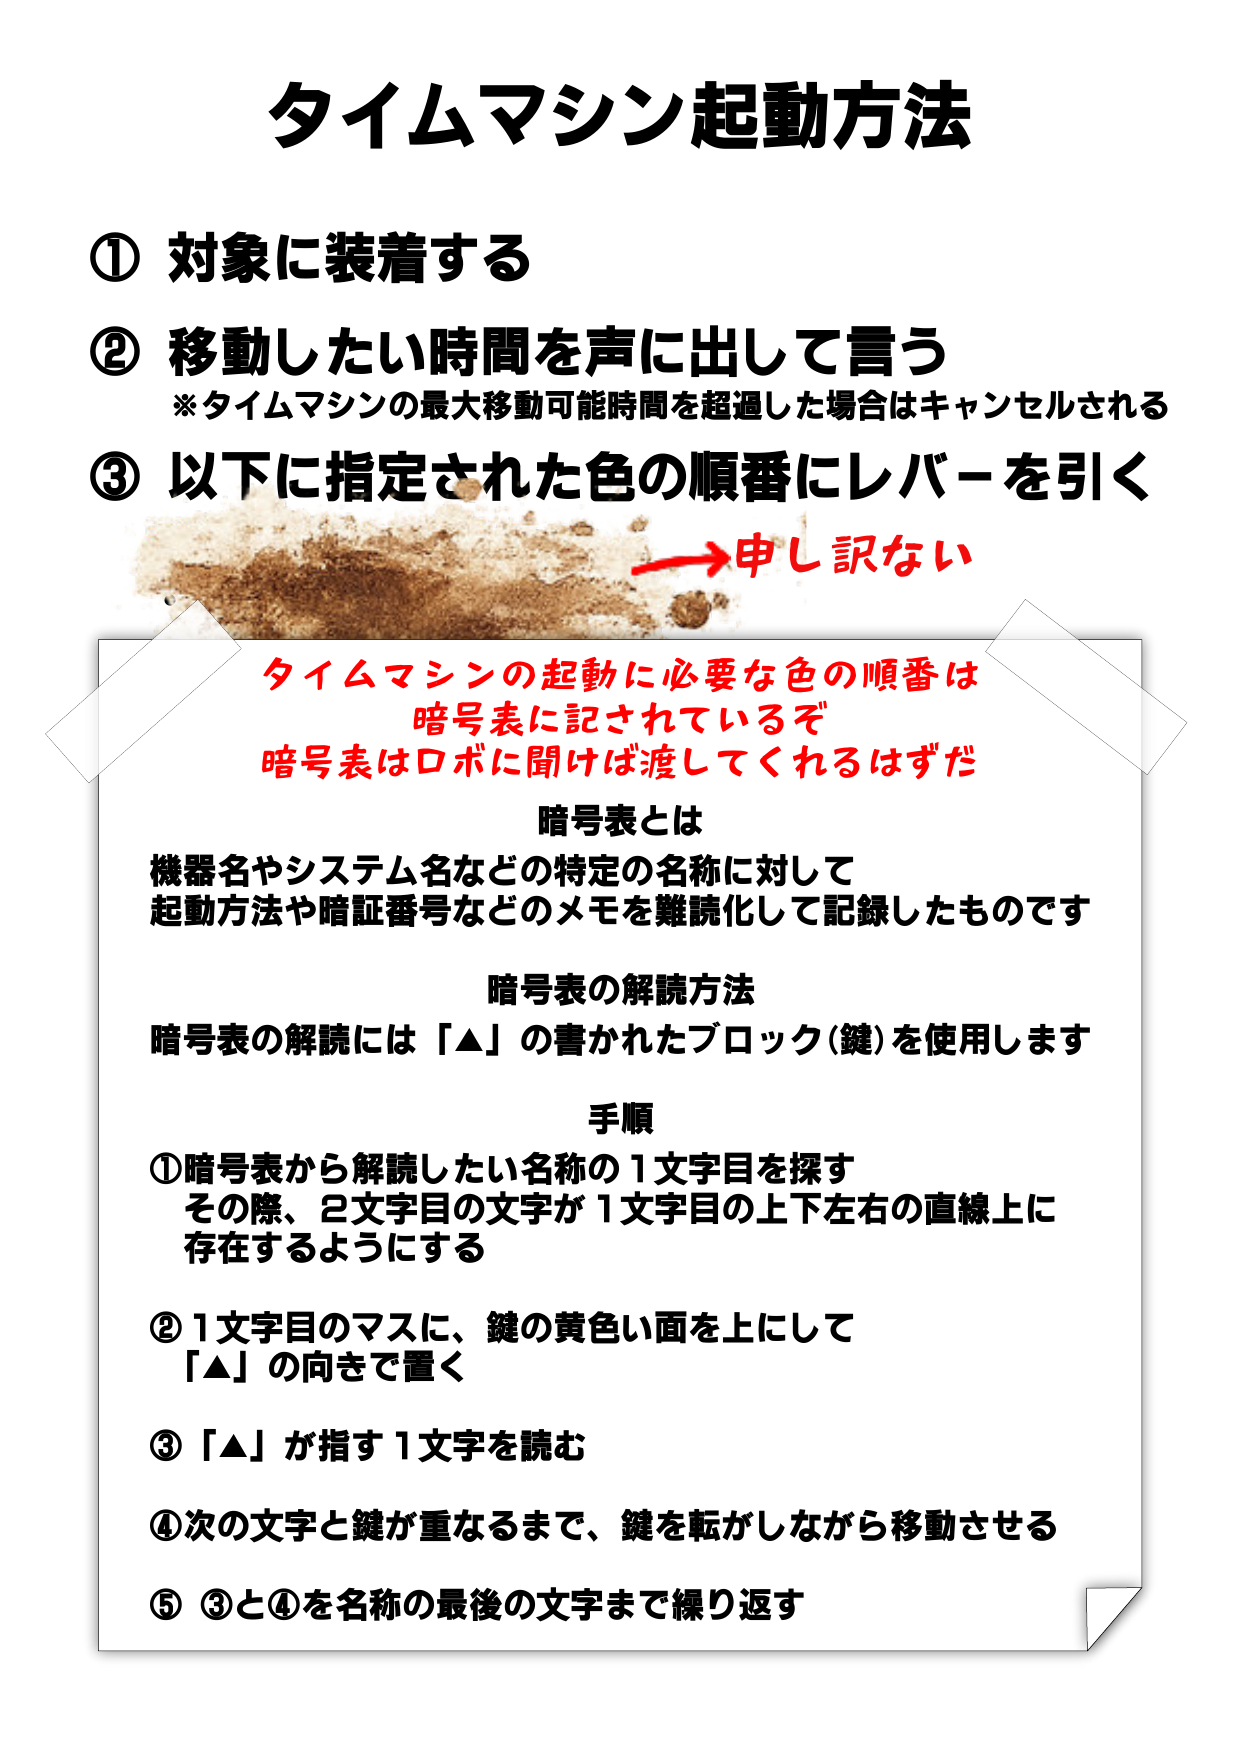
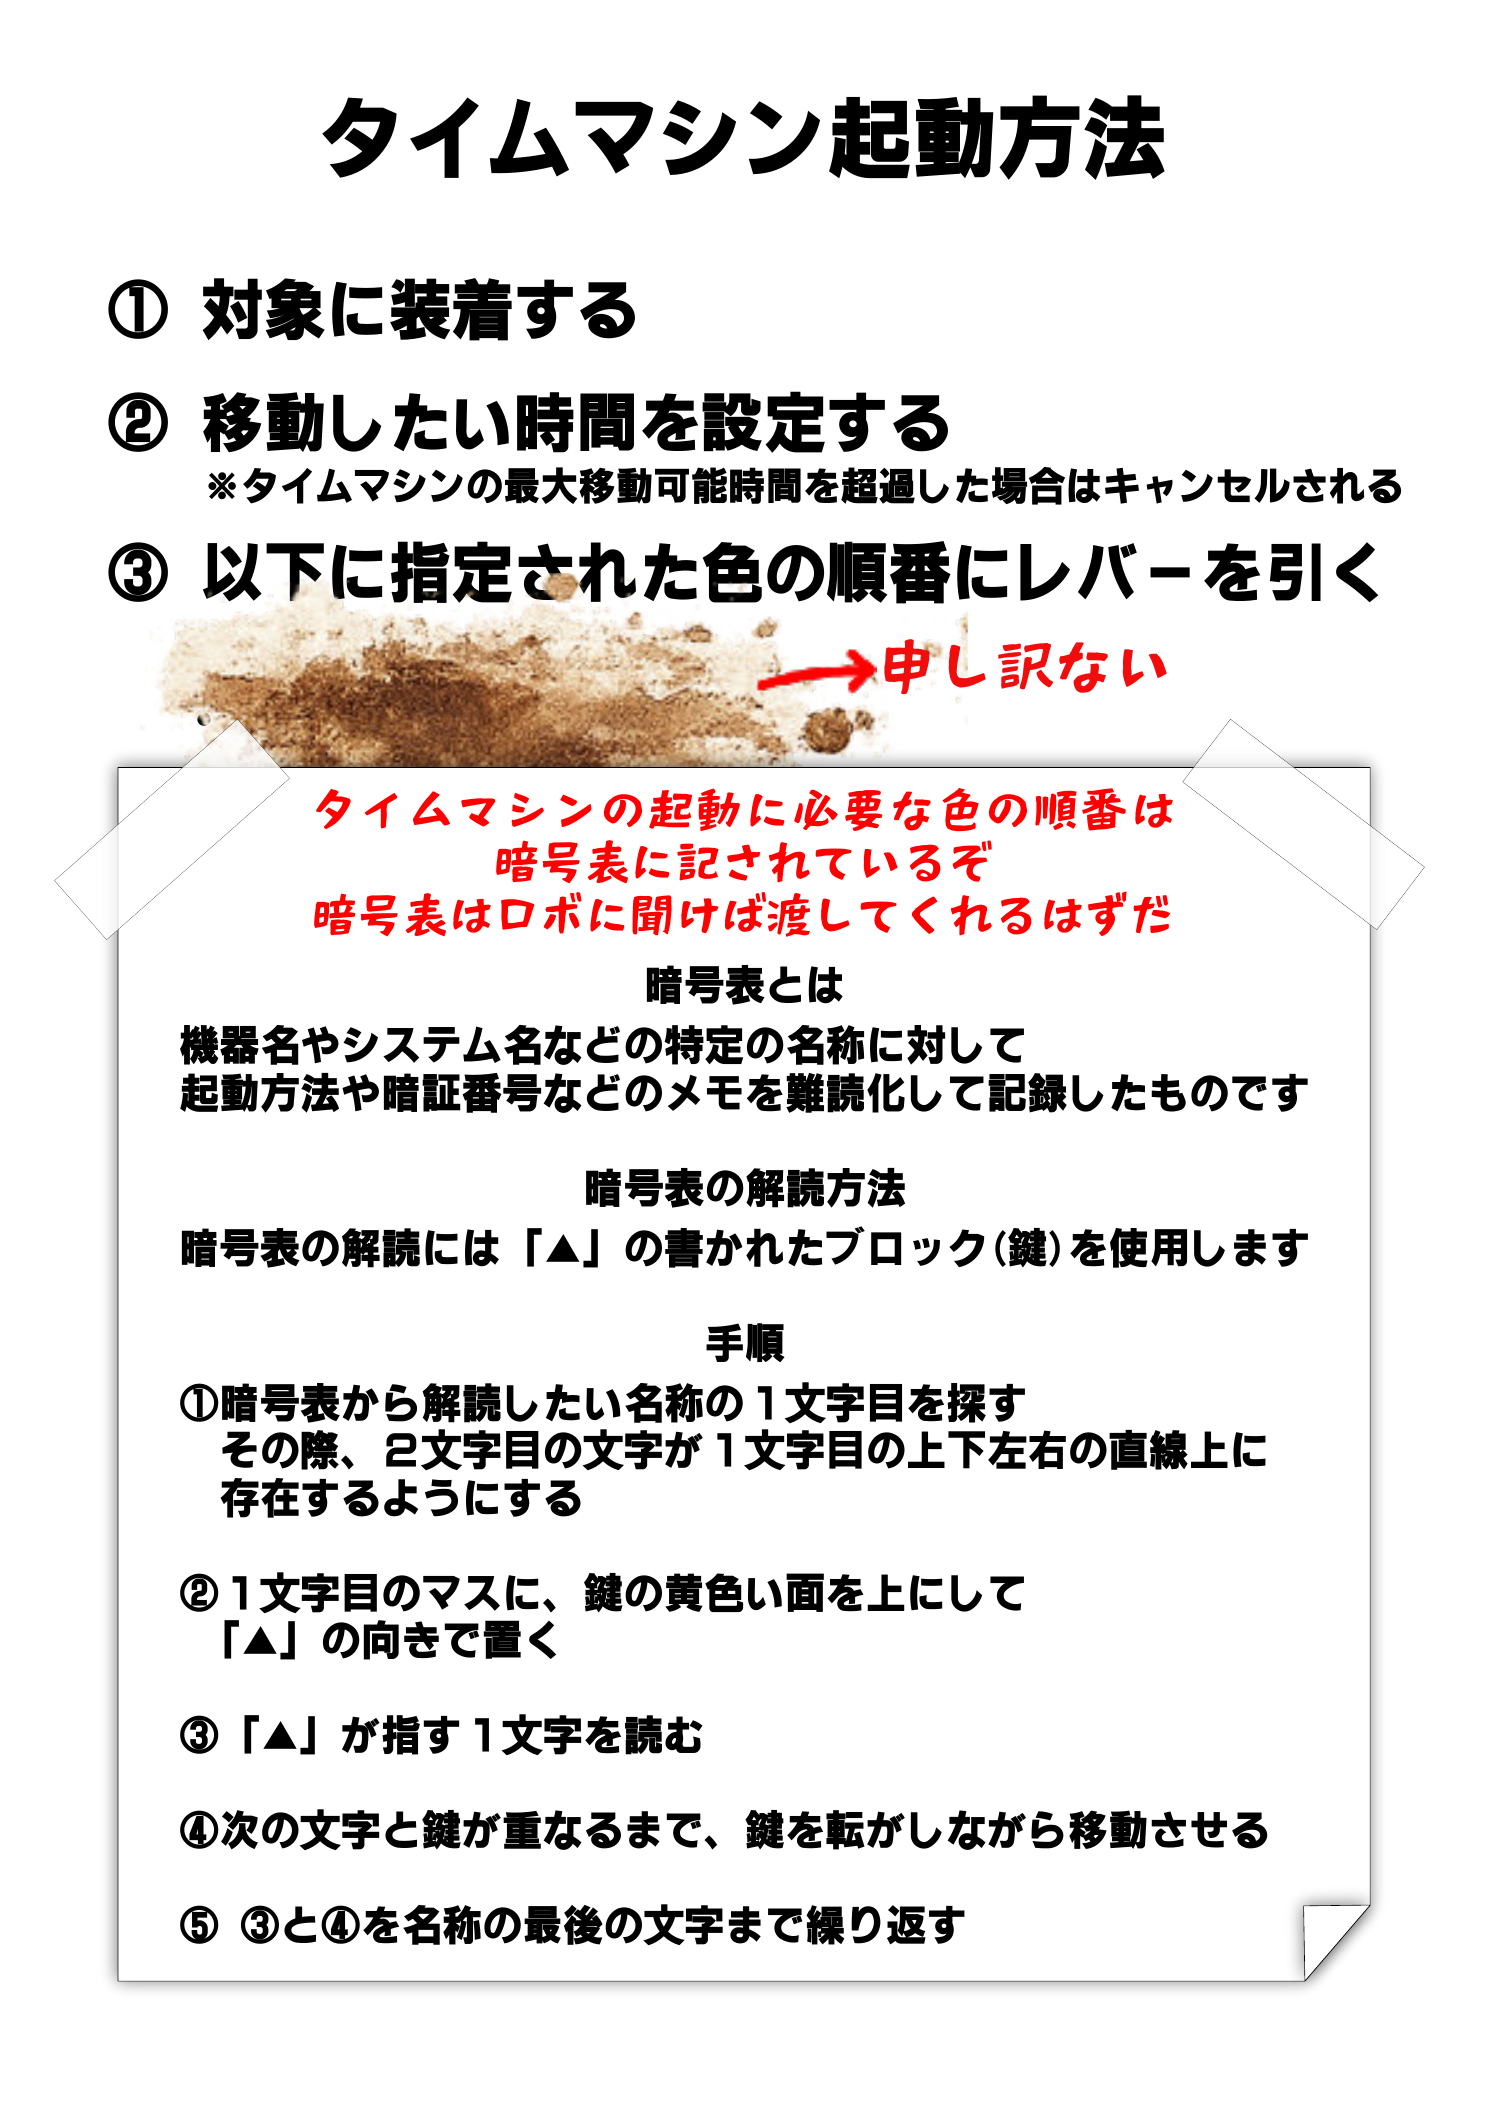
Update time machine reference images

diff --git a/screen6.html b/screen6.html
@@ -23,8 +23,8 @@
     <section class="time-documents" id="time-machine-documents" aria-labelledby="time-documents-title">
       <header class="time-documents-heading section-shell reveal"><div><p class="section-kicker">RECOVERED FILES / 02</p><h2 id="time-documents-title">タイムマシン資料</h2></div><p>画像をクリック／タップすると<br>大きく表示できます</p></header>
       <div class="time-document-grid section-shell">
-        <article class="time-document reveal"><header><span>DOCUMENT / 01</span><strong>タイムマシン起動方法</strong></header><button class="time-document-image" type="button" data-lightbox-src="assets/screen6/images/time-machine-procedure.png" data-lightbox-label="タイムマシン起動方法"><img src="assets/screen6/images/time-machine-procedure.png" alt="タイムマシンの装着、移動時間の指定、色レバーの操作と暗号表の解読方法を記した起動方法" loading="lazy"><span>拡大表示</span></button></article>
-        <article class="time-document reveal"><header><span>DOCUMENT / 02</span><strong>タイムマシン解説書</strong></header><button class="time-document-image" type="button" data-lightbox-src="assets/screen6/images/time-machine-guide.png?v=20260727-2" data-lightbox-label="タイムマシン解説書"><img src="assets/screen6/images/time-machine-guide.png?v=20260727-2" alt="宇宙船搭載タイムマシンの機能、装着条件、各世代の最大移動時間を説明する解説書" loading="lazy"><span>拡大表示</span></button></article>
+        <article class="time-document reveal"><header><span>DOCUMENT / 01</span><strong>タイムマシン起動方法</strong></header><button class="time-document-image" type="button" data-lightbox-src="assets/screen6/images/time-machine-procedure.png?v=20260729-1" data-lightbox-label="タイムマシン起動方法"><img src="assets/screen6/images/time-machine-procedure.png?v=20260729-1" alt="タイムマシンの装着、移動時間の指定、色レバーの操作と暗号表の解読方法を記した起動方法" loading="lazy"><span>拡大表示</span></button></article>
+        <article class="time-document reveal"><header><span>DOCUMENT / 02</span><strong>タイムマシン解説書</strong></header><button class="time-document-image" type="button" data-lightbox-src="assets/screen6/images/time-machine-guide.png?v=20260729-1" data-lightbox-label="タイムマシン解説書"><img src="assets/screen6/images/time-machine-guide.png?v=20260729-1" alt="宇宙船搭載タイムマシンの機能、装着条件、各世代の最大移動時間を説明する解説書" loading="lazy"><span>拡大表示</span></button></article>
       </div>
     </section>
 
